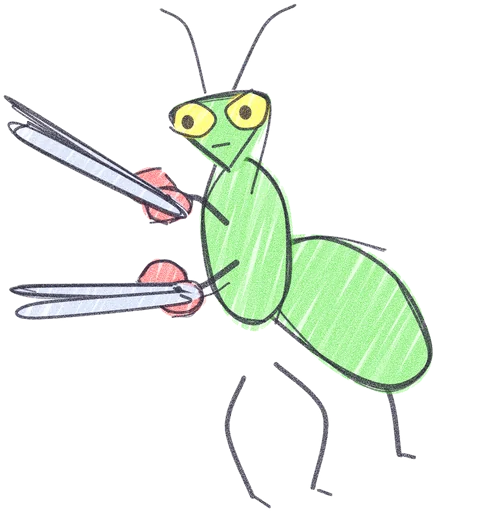
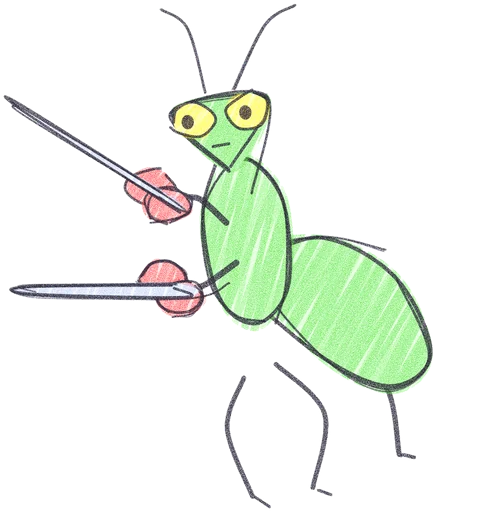
Battle gestures the owner asked for
- Minoufleur's near vine goes behind its body (in the card too): it
  looked like it came out of its mouth.
- Lunelle's belly moon twinkles, Ombrouille sticks out a big tongue,
  Ciseaumante's scissors snip open and shut.
- Ronflon brings its apple up to its mouth, still asleep: a new `reach`
  motion (turns, stays a moment, comes back).

Changed region(s): [[0.0, 0.2188, 0.4046, 0.4375], [0.0311, 0.5625, 0.4357, 0.625]]

diff --git a/tools/drafts/ciseaumante.ts b/tools/drafts/ciseaumante.ts
@@ -20,17 +20,20 @@ export default {
     shape(shake([[560, 600], [700, 560], [840, 650], [900, 800], [820, 860], [680, 790]], 10), GREEN, { gap: 13, miss: 0.04 });
     shape(potato(560, 560, 85, 160, 8, 0.05), GREEN, { gap: 13, miss: 0.04, angle: -70 });
     // scissor arms: blades out front, red handles at the elbow
-    const scissors = (x: number, y: number, dx: number, dy: number) => {
+    // in battle the lower blade of each pair opens and shuts round its screw: snip, snip
+    const scissors = (x: number, y: number, dx: number, dy: number, blade: string, phase: number) => {
       shape(potato(x, y, 46, 34, 7, 0.06), HANDLE, { gap: 8, w: 9, miss: 0 }, 5);
       shape(potato(x + 30, y + 40, 46, 34, 7, 0.06), HANDLE, { gap: 8, w: 9, miss: 0 }, 5);
       shape(shake([[x + 20, y + 10], [x + dx, y + dy - 25], [x + dx + 20, y + dy], [x + 40, y + 40]], 4), BLADE, { gap: 8, w: 9, miss: 0 }, 5);
-      shape(shake([[x + 40, y + 30], [x + dx + 20, y + dy + 10], [x + dx + 10, y + dy + 40], [x + 30, y + 50]], 4), BLADE, { gap: 8, w: 9, miss: 0 }, 5);
-      dot(x + 32, y + 26, 7);
+      k.part(blade, { pivot: [x + 32, y + 26], motion: 'flap', amp: 14, period: 0.6, phase }, () => {
+        shape(shake([[x + 40, y + 30], [x + dx + 20, y + dy + 10], [x + dx + 10, y + dy + 40], [x + 30, y + 50]], 4), BLADE, { gap: 8, w: 9, miss: 0 }, 5);
+        dot(x + 32, y + 26, 7);
+      });
     };
     stroke([[520, 520], [470, 470], [430, 470]], 10);
-    scissors(380, 440, -250, -150);
+    scissors(380, 440, -250, -150, 'lame-haut', 0);
     stroke([[540, 600], [480, 640], [440, 650]], 10);
-    scissors(390, 620, -270, 20);
+    scissors(390, 620, -270, 20, 'lame-bas', 0.5);
     // triangle head, big eyes, antennae
     stroke([[500, 260], [470, 140], [420, 100]], 5);
     stroke([[560, 260], [620, 140], [680, 110]], 5);

diff --git a/tools/redraws/minoufleur.ts b/tools/redraws/minoufleur.ts
@@ -13,6 +13,10 @@ export default {
     c.part('liane-loin', { pivot: [640, 480], motion: 'swing', amp: 7, period: 2.2, behind: true }, () => {
       shape(band([[640, 480], [760, 420], [860, 330], [880, 240], [825, 195], [770, 225], [790, 285]], 48, 22), GREEN, { angle: 120, press: 1.1 });
     });
+    // the near vine, coiled low under its chest, ready to whip (behind the body, it doesn't come out of its mouth)
+    c.part('liane', { pivot: [330, 600], motion: 'swing', amp: 6, period: 1.9, behind: true }, () => {
+      shape(band([[330, 600], [230, 640], [130, 610], [80, 520], [100, 430], [165, 410], [200, 460]], 50, 22), GREEN, { angle: 60, press: 1.1 });
+    });
     // back legs, the body behind on the right with its spots
     shape([[820, 700], [900, 700], [910, 880], [830, 885]], PALE, { angle: 90 });
     shape([[480, 470], [700, 430], [880, 480], [930, 620], [880, 770], [680, 800], [520, 760], [470, 620]], PALE, { angle: 85, over: 0.5 });
@@ -29,10 +33,6 @@ export default {
     shape([[280, 560], [520, 560], [560, 700], [520, 770], [300, 770], [260, 680]], PALE, { angle: 85, over: 0.4 });
     shape([[320, 690], [410, 690], [405, 890], [318, 895]], PALE, { angle: 90 });
     for (const x of [325, 355, 385, 485, 515, 545]) stroke([[x, 893], [x - 6, 922]], { w: 4 });
-    // the near vine, coiled low in front, ready to whip
-    c.part('liane', { pivot: [330, 600], motion: 'swing', amp: 6, period: 1.9 }, () => {
-      shape(band([[330, 600], [230, 640], [130, 610], [80, 520], [100, 430], [165, 410], [200, 460]], 50, 22), GREEN, { angle: 60, press: 1.1 });
-    });
     // ears, their base hidden in the head
     shape([[250, 430], [245, 300], [330, 400]], PALE, { angle: 70 }, {}, false);
     shape([[400, 380], [500, 270], [510, 430]], PALE, { angle: 110 }, {}, false);

diff --git a/src/data/rigs.ts b/src/data/rigs.ts
@@ -18,22 +18,23 @@ export function idleOf(species: string): Idle {
  * - `fold`: folds towards its pivot and opens again (butterfly wings), `amp` = how far it folds, in %;
  * - `swing`: sways around its pivot (a trunk, a tail), `amp` degrees;
  * - `nod`: a little bow of the head around its pivot;
+ * - `reach`: turns to `amp` degrees, stays a moment, comes back (an arm bringing food to the mouth);
  * - `peek`: slides by `to` (% of its own size) and back, hiding behind what is in front (a shell, a hole);
  * - `flicker`: flashes on and off (sparks, lightning);
  * - `blink`: shows for a blink now and then (closed eyelids drawn over the eyes).
  */
-export type Motion = 'flap' | 'fold' | 'swing' | 'nod' | 'peek' | 'flicker' | 'blink';
-export const MOTIONS: Motion[] = ['flap', 'fold', 'swing', 'nod', 'peek', 'flicker', 'blink'];
+export type Motion = 'flap' | 'fold' | 'swing' | 'nod' | 'reach' | 'peek' | 'flicker' | 'blink';
+export const MOTIONS: Motion[] = ['flap', 'fold', 'swing', 'nod', 'reach', 'peek', 'flicker', 'blink'];
 
 /** Defaults when a part doesn't say: [amp, seconds]. */
 export const MOTION_DEFAULTS: Record<Motion, [number, number]> = {
-  flap: [18, 0.5], fold: [55, 0.6], swing: [8, 2.6], nod: [6, 3.2], peek: [0, 4.2], flicker: [0, 2.4], blink: [0, 4.6],
+  flap: [18, 0.5], fold: [55, 0.6], swing: [8, 2.6], nod: [6, 3.2], reach: [-45, 4], peek: [0, 4.2], flicker: [0, 2.4], blink: [0, 4.6],
 };
 
 /** How a part moves: what the drawing code gives `c.part()`, besides its name and pivot. */
 export interface PartMove {
   motion: Motion;
-  /** Degrees for flap, swing and nod; % for fold. */
+  /** Degrees for flap, swing, nod and reach; % for fold. */
   amp?: number;
   /** Seconds for one movement. */
   period?: number;

diff --git a/tools/redraws/ronflon.ts b/tools/redraws/ronflon.ts
@@ -16,9 +16,12 @@ export default {
     shape(potato(300, 860, 100, 80, 10, 0.06), BLUE, { angle: 60 });
     shape(potato(285, 870, 54, 42, 8, 0.08), CREAM, { over: 0 }, { w: 4 });
     // the near arm holding an apple on the tummy
-    shape(band([[230, 520], [260, 610], [390, 640]], 80, 70), BLUE, { angle: 60 });
-    shape(potato(430, 630, 50, 46, 9, 0.05), APPLE, { angle: 80, press: 1.1, over: 0 });
-    stroke([[430, 585], [440, 555]], { w: 4.5 });
+    // in battle it brings the apple up to its mouth now and then, still fast asleep
+    c.part('pomme', { pivot: [235, 520], motion: 'reach', amp: -58, period: 4.4 }, () => {
+      shape(band([[230, 520], [260, 610], [390, 640]], 80, 70), BLUE, { angle: 60 });
+      shape(potato(430, 630, 50, 46, 9, 0.05), APPLE, { angle: 80, press: 1.1, over: 0 });
+      stroke([[430, 585], [440, 555]], { w: 4.5 });
+    });
     // the head turned left, little pointed ears, fast asleep
     shape([[300, 250], [320, 150], [390, 230]], BLUE, { angle: 70 }, {}, false);
     shape([[540, 225], [620, 130], [640, 245]], BLUE, { angle: 110 }, {}, false);

diff --git a/tools/redraws/lunelle.ts b/tools/redraws/lunelle.ts
@@ -37,5 +37,12 @@ export default {
     dot(452, 440, 11, 14, '#ffffff');
     stroke([[300, 560], [360, 590], [430, 570]], { w: 5 });
     shape(potato(560, 530, 36, 22, 7, 0.1), DEEP, { over: 0 }, { w: 0.1 });
+    // only in battle: its belly moon twinkles (drawn last, the card stays the same)
+    c.part('lune', { pivot: [440, 720], motion: 'flicker', period: 2.2, extra: true }, () => {
+      shape(moon, '#fff4b0', { angle: 80, over: 0, press: 0.8 }, { w: 3.5 });
+      for (const [x, y, r] of [[530, 650, 24], [345, 690, 18], [500, 805, 16], [390, 620, 14]] as const) {
+        shape([[x, y - r], [x + r / 4, y - r / 4], [x + r, y], [x + r / 4, y + r / 4], [x, y + r], [x - r / 4, y + r / 4], [x - r, y], [x - r / 4, y - r / 4]], MOON, { over: 0 }, { w: 3 }, false);
+      }
+    });
   },
 } satisfies Redraw;

diff --git a/tools/redraws/ombrouille.ts b/tools/redraws/ombrouille.ts
@@ -31,5 +31,10 @@ export default {
       shape(band([[300, 500], [190, 470], [90, 450]], 54, 46), PURPLE, { angle: 20 });
       shape([[100, 415], [15, 360], [70, 440], [5, 465], [75, 478], [30, 540], [115, 490]], PURPLE, { angle: 20, press: 1.1 }, {}, false);
     });
+    // only in battle: a big tongue poking out of its grin, now and then (drawn last, the card stays the same)
+    c.part('langue', { pivot: [420, 590], motion: 'peek', to: [0, -55], shrink: 0.3, fade: true, period: 3.4, extra: true }, () => {
+      shape([[372, 588], [470, 588], [478, 680], [448, 742], [404, 738], [370, 680]], '#f07f9a', { angle: 90, over: 0, press: 1.1 });
+      stroke([[422, 600], [424, 700]], { w: 4, col: '#c4506b' });
+    });
   },
 } satisfies Redraw;

diff --git a/src/ui/battle/battle.css b/src/ui/battle/battle.css
@@ -91,6 +91,8 @@
 @keyframes partSwing { 25% { rotate: var(--amp); } 75% { rotate: calc(-1 * var(--amp)); } }
 .pk-part--nod { animation-name: partNod; }
 @keyframes partNod { 0%, 70%, 100% { rotate: 0deg; } 80% { rotate: var(--amp); } 90% { rotate: 0deg; } }
+.pk-part--reach { animation-name: partReach; }
+@keyframes partReach { 0%, 30%, 100% { rotate: 0deg; } 48%, 68% { rotate: var(--amp); } 85% { rotate: 0deg; } }
 .pk-part--peek { animation-name: partPeek; }
 @keyframes partPeek { 0%, 40%, 100% { translate: 0 0; scale: 1; opacity: 1; } 52%, 82% { translate: var(--to-x) var(--to-y); scale: var(--shrink); opacity: var(--fade); } }
 /* in front at rest, behind the rest once it is small (a turtle inside its shell) */
